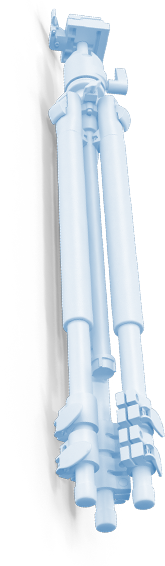
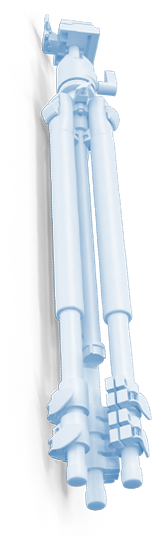
Service Section Responsive done

Changed region(s): [[0.1818, 0.0, 1.0, 0.9552]]

diff --git a/Tasks/Day-19/src/sections/Services/Services.jsx b/Tasks/Day-19/src/sections/Services/Services.jsx
@@ -1,0 +1,103 @@
+import React from "react";
+import Col from "react-bootstrap/Col";
+import Container from "react-bootstrap/Container";
+import Row from "react-bootstrap/Row";
+import styles from "./services.module.scss";
+
+const itemDetails = {
+  type: "tripod",
+  placing: "standing",
+  "legs qty": 3,
+  "lock type": "flip lock",
+  "quick release": "yes",
+  "column type": "geared",
+  "max height": "61 in",
+  "min height": "22 in",
+  supported: "camcorder",
+};
+export default function Services() {
+  return (
+    <section className="services">
+      <Container>
+        <Row>
+          <Col>
+            <div className="services-heading section_heading">
+              <h2>Instacam’s Latest Product</h2>
+              <p>
+                Lorem ipsum dolor sit amet, consectetur adipisicing elit, sed do
+                eiusmod tempor incididunt ut labore et dolore magna aliqua.
+              </p>
+            </div>
+          </Col>
+        </Row>
+        <Row>
+          <Col md={12} lg={6}>
+            <Row>
+              <Col xs={12} sm={6} className="mb-3">
+                <div className={styles.item}>
+                  <img
+                    src="assets/images/services/service_images_2.png"
+                    alt="service Image 1"
+                  />
+                </div>
+              </Col>
+              <Col xs={12} sm={6} className="mb-3">
+                <div className={styles.item}>
+                  <img
+                    src="assets/images/services/service_images_3.png"
+                    alt="service Image 1"
+                  />
+                </div>
+              </Col>
+              <Col xs={12} sm={6} className="mb-3">
+                <div className={styles.item}>
+                  <img
+                    src="assets/images/services/service_images_4.png"
+                    alt="service Image 1"
+                  />
+                </div>
+              </Col>
+              <Col xs={12} sm={6} className="mb-3">
+                <div className={styles.item}>
+                  <img
+                    src="assets/images/services/service_images_1.png"
+                    alt="service Image 1"
+                  />
+                </div>
+              </Col>
+            </Row>
+          </Col>
+          <Col md={12} lg={6}>
+            <Row className={styles.bg}>
+              <Col sm={12} md={5} className={styles.item}>
+                <div>
+                  <img
+                    src="assets/images/services/services_right_image.png"
+                    alt="Camera tripod image"
+                  />
+                </div>
+              </Col>
+              <Col sm={12} md={7}>
+                <div className={styles.details}>
+                  <h2 className={styles.h2}>Monochrome Camera Tripod</h2>
+                  <ul className={styles.list}>
+                    {itemDetails &&
+                      Object.entries(itemDetails).map(([key, value]) => (
+                        <li className={styles.li}>
+                          <span>{key}</span>
+                          <span>{value}</span>
+                        </li>
+                      ))}
+                  </ul>
+                  <a className={styles.a} href="#">
+                    Full specification
+                  </a>
+                </div>
+              </Col>
+            </Row>
+          </Col>
+        </Row>
+      </Container>
+    </section>
+  );
+}

diff --git a/Tasks/Day-19/src/sections/Services/services.module.scss b/Tasks/Day-19/src/sections/Services/services.module.scss
@@ -1,0 +1,64 @@
+.item {
+  background-image: radial-gradient(#e8f4ff, #d3e9fe);
+  display: flex;
+  justify-content: center;
+}
+.list {
+  padding-left: 0;
+  .li {
+    color: #444;
+    font-family: "Open Sans", sans-serif;
+    font-weight: 400;
+    font-size: 16px;
+    display: flex;
+    justify-content: space-between;
+    text-transform: capitalize;
+    padding-bottom: 1rem;
+  }
+}
+.bg {
+  background: #f5f5f5;
+  box-shadow: 0px 0px 9px 1px rgba(58, 133, 201, 0.2);
+}
+
+.details {
+  @media (max-width: 1199.98px) {
+    & {
+      padding: 0 40px;
+    }
+    @media (min-width: 767.98px) {
+      & {
+        padding: 0;
+      }
+    }
+  }
+  padding: 0 40px;
+
+  .h2 {
+    color: #3a85c9;
+    font-family: "Open Sans", sans-serif;
+    font-weight: 600;
+    font-size: 24px;
+    padding-top: 15px;
+    padding-bottom: 15px;
+    text-align: center;
+  }
+  .a {
+    text-transform: capitalize;
+    color: #fff;
+    font-family: "Open Sans", sans-serif;
+    font-weight: 600;
+    font-size: 16px;
+    text-align: center;
+    display: block;
+    background: #3a85c9;
+    box-shadow: 0px 15px 25px 0px rgba(58, 133, 201, 0.25);
+    padding-top: 11px;
+    padding-bottom: 11px;
+    transition: all linear 0.3s;
+    &:hover {
+      background-color: #fff;
+      color: #3a85c9;
+    }
+  }
+}

diff --git a/Tasks/Day-19/src/components/Home.jsx b/Tasks/Day-19/src/components/Home.jsx
@@ -5,9 +5,9 @@ import Banner from "../sections/Banner/Banner";
 // import Contact from "../sections/Contact";
 import Faq from "../sections/Faq/Faq";
 import Features from "../sections/Features/Features";
-// import Services from "../sections/Services";
+import Services from "../sections/Services/Services";
 // import Testimonials from "../sections/Testimonials";
-// import WatchVideo from "../sections/WatchVideo";
+import WatchVideo from "../sections/WatchVideo";
 
 export default function Home() {
   return (
@@ -16,8 +16,9 @@ export default function Home() {
       <Features />
       <About />
       <Faq />
-      {/* <WatchVideo />
+      <WatchVideo />
       <Services />
+      {/* 
       <Testimonials />
       <Blogs />
       <Contact /> */}

diff --git a/Tasks/Day-19/src/sections/Faq/faq.module.scss b/Tasks/Day-19/src/sections/Faq/faq.module.scss
@@ -61,6 +61,11 @@ $secondary-font: "Abril Fatface", cursive;
     padding-bottom: 5px;
     text-align: center;
     @include typography(32px, #3a85c9, 40px, 400, $secondary-font);
+    @media (max-width: 1199.98px) {
+      & {
+        @include typography(25px, #3a85c9, 30px, 400, $secondary-font);
+      }
+    }
   }
   .p {
     text-transform: capitalize;
